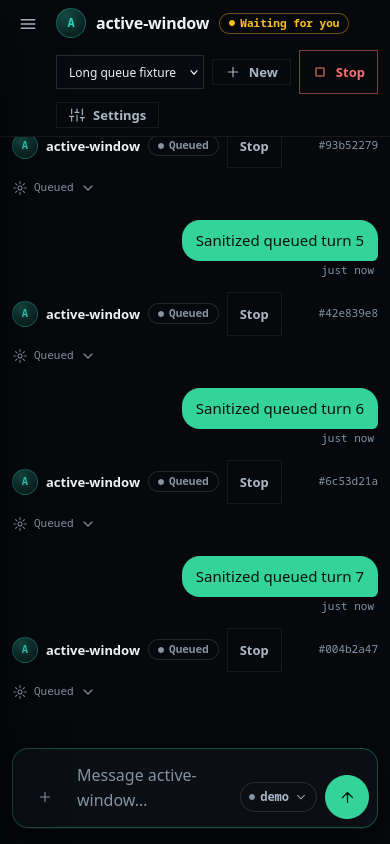
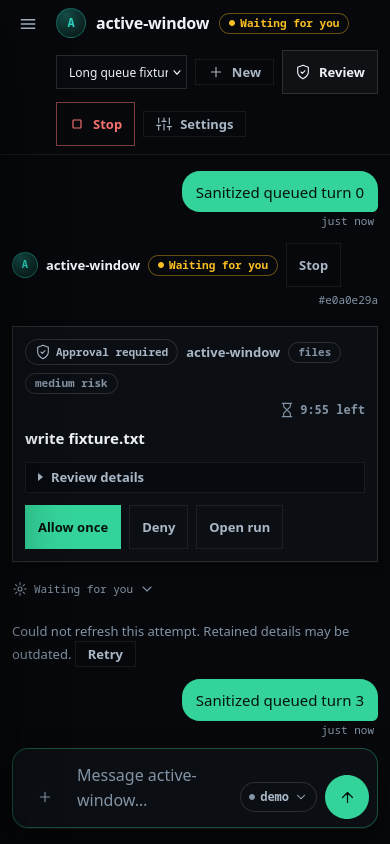
fix(ui): bring older approvals into view from chat header

diff --git a/src/hutch/server/static/app.js b/src/hutch/server/static/app.js
@@ -647,6 +647,7 @@ async function renderChatStudio(preferredBot = null) {
       </select>
       <button class="btn ghost small" id="studio-new-conversation" type="button">${icon("plus")} New</button>
       ${!selectedConversation.is_legacy ? `<button class="btn ghost small" id="studio-archive-conversation" type="button" ${activeRun ? "hidden" : ""}>${selectedConversation.archived ? "Restore" : "Archive"}</button>` : ""}
+      <button class="btn ghost small" id="studio-review-run" type="button" ${activeRun?.status === "waiting_approval" ? "" : "hidden"}>${icon("shield")} Review</button>
       <button class="btn danger small" id="studio-stop-run" type="button" data-stop-target="${esc(activeRun?.id || "")}" ${activeRun ? "" : "hidden"}>${icon("stop")} Stop</button>
       <a class="btn ghost small" href="#/bot/${esc(bot.name)}">${icon("sliders")} Settings</a>
     </div>`);
@@ -833,6 +834,15 @@ async function renderChatStudio(preferredBot = null) {
     if (ev.key === "Escape" && !menu.hidden) { ev.stopPropagation(); setMenu(false); menuBtn.focus(); }
   });
   $("#studio-stop-run").onclick = ev => requestStop(ev.currentTarget.dataset.stopTarget, ev.currentTarget);
+  $("#studio-review-run").onclick = () => {
+    const id = $("#studio-stop-run").dataset.stopTarget;
+    const thread = $$("#chat-stream [data-run-id]").find(e => e.dataset.runId === id);
+    const card = thread?.querySelector("[data-approval-card]");
+    if (card) {
+      card.scrollIntoView({ block: "center", behavior: "instant" });
+      card.querySelector("summary, button")?.focus({ preventScroll: true });
+    } else $("#needs-you-open")?.click();
+  };
 
   feedMode = "studio";
   if (activeRun) subscribeRun(activeRun.id);   // stream brings events; first paint below
@@ -865,6 +875,8 @@ function syncStudioRunControls(run) {
   }
   const archive = $("#studio-archive-conversation");
   if (archive) archive.hidden = !!active;
+  const review = $("#studio-review-run");
+  if (review) review.hidden = run?.status !== "waiting_approval";
   const meta = $(".ctx-meta");
   if (meta) meta.innerHTML = active ? statusChip(run.status, run.status_label) : "";
 }

diff --git a/src/hutch/server/static/style.css b/src/hutch/server/static/style.css
@@ -1083,8 +1083,10 @@ a.ov-approval:hover { background: rgba(255, 255, 255, 0.03); text-decoration: no
 .run-error.run-notice { color: var(--text-2); }
 .run-error.run-review { color: var(--warn); }
 @media (max-width: 600px) {
+  .mhead { flex-wrap: wrap; }
+  .mhead .status { flex-shrink: 0; max-width: 100%; white-space: normal; }
   .composer-send, .composer-util { width: 44px; height: 44px; }
   .quick-prompts button, .cmenu-row { min-height: 44px; }
-  .mhead [data-stop-run], #studio-stop-run { min-height: 44px; }
+  .mhead [data-stop-run], #studio-stop-run, #studio-review-run { min-height: 44px; }
   .composer-strip { align-items: flex-start; flex-wrap: wrap; line-height: 1.5; }
 }

diff --git a/tests/e2e/test_browser.py b/tests/e2e/test_browser.py
@@ -762,6 +762,15 @@ def test_old_active_approval_survives_chat_window_and_header_stop_targets_it(bro
     assert page.locator("#studio-stop-run").is_visible(), "a failed refresh cannot mean completion"
     assert page.locator("#studio-stop-run").get_attribute("data-stop-target") == runs[0].id
     page.unroute(f"**/api/runs/{runs[0].id}")
+    page.locator("#studio-review-run").click()
+    assert card.locator("summary, button").first.evaluate("e => e === document.activeElement")
+    box = card.bounding_box()
+    feed = page.locator("#chat-scroll").bounding_box()
+    assert box["y"] >= feed["y"] - 1 and box["y"] + box["height"] <= feed["y"] + feed["height"] + 1
+    if size == "phone":
+        assert page.locator("#studio-review-run").bounding_box()["height"] >= 44
+        assert card.locator("xpath=ancestor::article").locator(".mhead .status").evaluate(
+            "e => e.scrollWidth <= e.clientWidth + 1"), "keep the complete waiting label visible"
     out = Path(__file__).resolve().parents[2] / "docs/realignment/artifacts/conversation-authority"
     out.mkdir(parents=True, exist_ok=True)
     page.screenshot(path=str(out / f"{size}.png"), full_page=True, animations="disabled")

diff --git a/docs/realignment/ledger.md b/docs/realignment/ledger.md
@@ -392,3 +392,16 @@ failed refresh retains the inline request and primary Stop, with no page errors 
 Waits are synthetic; the Stop command and expiration transaction are real. No schema change.
 Full regression/browser repeats follow the next accounting checkpoint. Usage test additions in
 the working tree are separate, currently failing baselines, and excluded from this UI commit.
+
+Conversation authority commit: `b5848e0`.
+
+Full-size inspection then showed the retained old request above the visible area because chat
+follows the latest queued messages. A header Review control now scrolls/focuses the inline
+request; unavailable details fall back to Needs you. The expanded browser journey passed
+**4 tests in 24.11s** and refreshed both inspected captures. These demonstrate the actual
+visible decision region, not merely a request present in the DOM. Full repeats remain next.
+
+Phone inspection found the attempt's waiting label clipped in a tight row. It now wraps the
+row without shrinking the status, and the final four journeys passed **4 tests in 25.91s**.
+The refreshed full-size phone capture was inspected: complete waiting label, Review/Stop,
+inline decision buttons and failed-refresh notice are all within their intended regions.

diff --git a/docs/realignment/navigation.md b/docs/realignment/navigation.md
@@ -28,6 +28,8 @@ instead of a generic failed label, and recorded queue time remains visible witho
 The main Stop targets the server-selected active attempt within the conversation, even after
 new messages queue. That attempt and its approval stay visible beyond the six-attempt display
 window. Failed refresh retains the review with an explicit stale-details notice and Retry.
+A waiting conversation also exposes Review in the header. It scrolls and focuses the inline
+request without focusing the composer; if the request is unavailable, it opens Needs you.
 
 Monitor contains Activity and Run history. These answer different questions (what needs
 attention now versus what happened), so combining them with conversation history would lose

diff --git a/CHANGELOG.md b/CHANGELOG.md
@@ -9,6 +9,7 @@ All notable changes to hutch (formerly "openbot"). Format follows Keep a Changel
 - Queued messages cannot replace an executing or waiting conversation attempt as the main Stop
   target. Older active approvals stay visible beyond the chat window; failed refresh retains
   review details with Retry instead of hiding the control or reporting completion.
+  Header Review brings an older request into view; phone attempt labels wrap without clipping.
 
 - Expired leases cannot renew or authorize owner actions, approvals, reservations, progress or
   status changes before recovery. Buffered worker replies validate ownership at commit, and late
